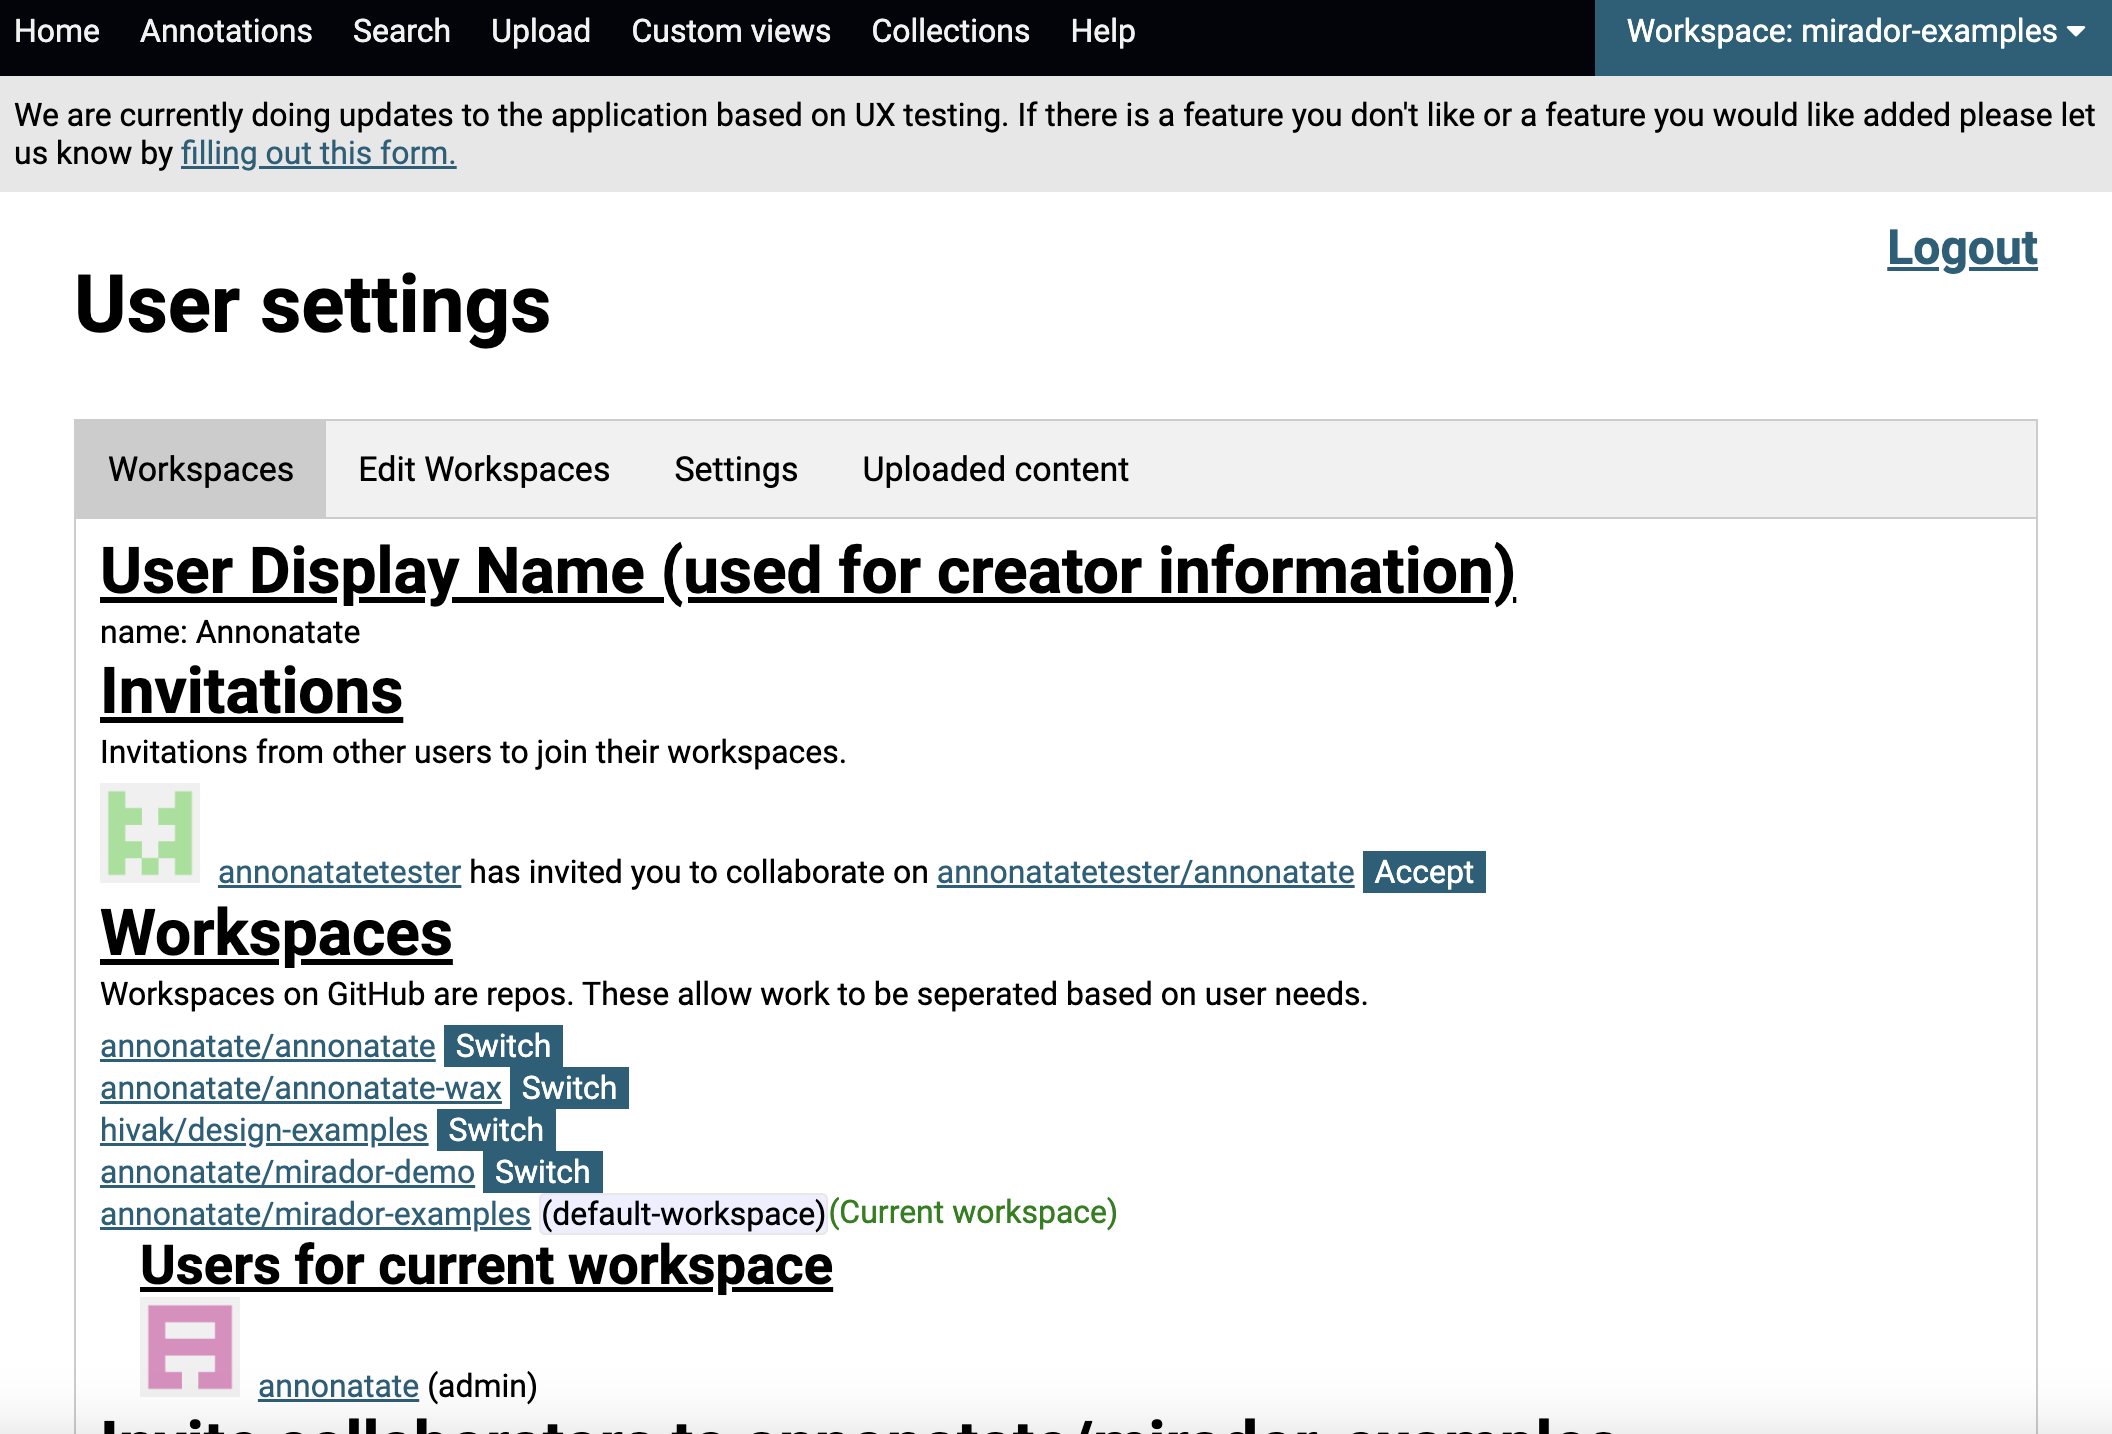
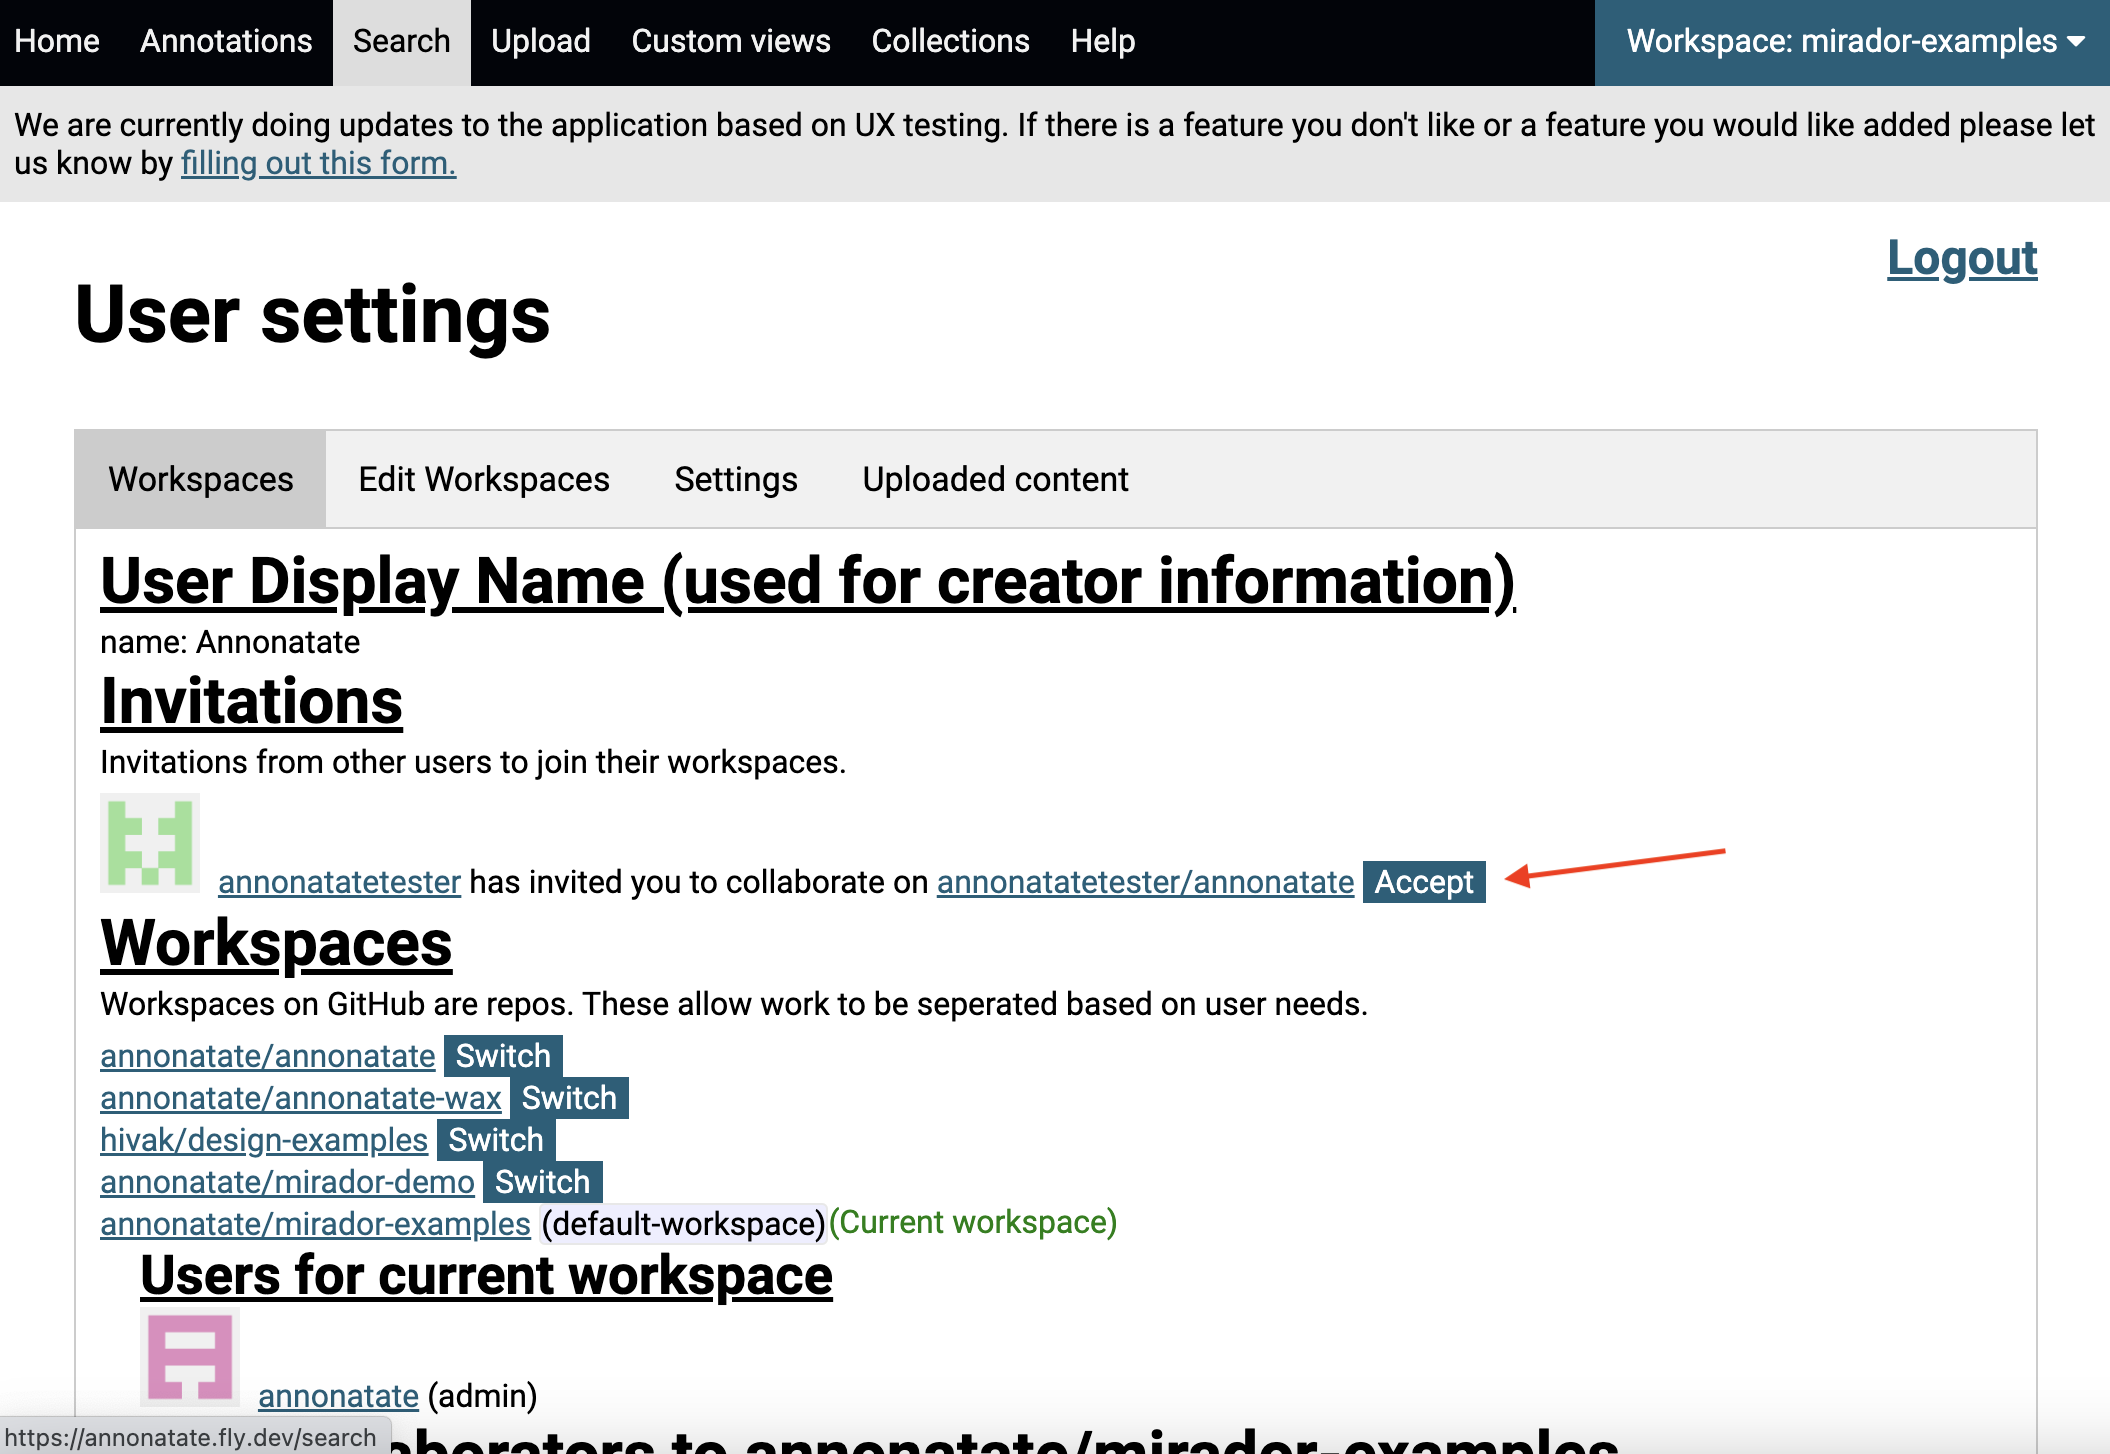
reorder pages

diff --git a/workspace/invite.md b/workspace/invite.md
@@ -1,9 +1,16 @@
 ---
-title: Inviting Collaborators
+title: Collaborators
 layout: default
 nav_order: 6
 parent: Workspace Customization
 ---
+{: .no_toc }
+
+{: .no_toc .text-delta }
+
+1. TOC
+{:toc}
+
 
 ## Invite Collaborators
 1. Click on the workspace name dropdown
@@ -15,6 +22,11 @@ parent: Workspace Customization
 ![]({{site.baseurl}}/images/invite-3.png){:class="helpimage"}
 5. If you set up a [GitHub organization](https://docs.github.com/en/organizations/collaborating-with-groups-in-organizations/creating-a-new-organization-from-scratch) you can create more fine grained user permissions (read, write, admin). If you are using a personal account you can only grant write access.
 
+## Accepting Collaboration Invite
+1. Click on "Switch Workspace" dropdown
+![]({{site.baseurl}}/images/switch-1.png){:class="helpimage"}
+2. Click on the accept button.
+![]({{site.baseurl}}/images/invite-4.png){:class="helpimage"}
 
 # Tips
 * Read Only access to a workspace only works when you are logged in with a organization account. If you aren't sure if you are logged in via an GitHub organization account, the answer is you probably aren't.

diff --git a/getting-started.md b/getting-started.md
@@ -24,11 +24,11 @@ If you are unable to log in properly try one of the following steps to get the a
 ## Delete repository
 
 1. Follow the instructions listed here: [https://docs.github.com/en/github/administering-a-repository/managing-repository-settings/deleting-a-repository](https://docs.github.com/en/github/administering-a-repository/managing-repository-settings/deleting-a-repository)
-2. Go to [https://annonatate.herokuapp.com/login](https://annonatate.herokuapp.com/login)
+2. Go to [https://annonatate.fly.dev/login](https://annonatate.fly.dev/login)
 
 ## Enable GitHub Pages
 1. Folow the instructions listed here: [https://docs.github.com/en/pages/getting-started-with-github-pages/configuring-a-publishing-source-for-your-github-pages-site](https://docs.github.com/en/pages/getting-started-with-github-pages/configuring-a-publishing-source-for-your-github-pages-site)
-2. Go to [https://annonatate.herokuapp.com/?firstbuild=True](https://annonatate.herokuapp.com/?firstbuild=True)
+2. Go to [https://annonatate.fly.dev/?firstbuild=True](https://annonatate.fly.dev/?firstbuild=True)
 
 
 

diff --git a/index.md b/index.md
@@ -4,4 +4,4 @@ layout: default
 nav_order: 1
 ---
 
-This site contains documentation on Annonatate. You can search the site for what you are looking for or you can choose one of the pages from the sidebar. If you are having trouble signing in follow the tips on troubleshooting on the [Getting Started page](https://annonatate.github.io/annonatate-help/getting-started#troubleshooting).
+This site contains documentation on [Annonatate](https://annonatate.fly.dev). You can search the site for what you are looking for or you can choose one of the pages from the sidebar. If you are having trouble signing in follow the tips on troubleshooting on the [Getting Started page](https://annonatate.github.io/getting-started#troubleshooting).

diff --git a/workspace/new.md b/workspace/new.md
@@ -1,0 +1,17 @@
+---
+title: Create New Workspace
+layout: default
+nav_order: 6
+parent: Workspace Customization
+---
+
+## Create new workspace
+1. Click on Create New Workspace dropdown
+![]({{site.baseurl}}/images/new-1.png){:class="helpimage"}
+2. Fill out form and click submit
+![]({{site.baseurl}}/images/new-2.png){:class="helpimage"}
+3. You will be redirected to the Workspaces tab. Click on the switch button to switch to your new workspace.
+![]({{site.baseurl}}/images/new-3.png){:class="helpimage"}
+4. You should see "(Current Workspace)" show up next to your workspace.
+![]({{site.baseurl}}/images/new-4.png){:class="helpimage"}
+

diff --git a/workspace/switch.md b/workspace/switch.md
@@ -1,0 +1,15 @@
+---
+title: Switch Workspace
+layout: default
+nav_order: 7
+parent: Workspace Customization
+---
+
+## Create new workspace
+1. Click on Create New Workspace dropdown
+![]({{site.baseurl}}/images/switch-1.png){:class="helpimage"}
+2. Find the workspace you want to work in and click switch.
+![]({{site.baseurl}}/images/new-3.png){:class="helpimage"}
+3. You should see “(Current Workspace)” show up next to your workspace.
+![]({{site.baseurl}}/images/new-4.png){:class="helpimage"}
+

diff --git a/viewing_annotations.md b/viewing_annotations.md
@@ -1,7 +1,7 @@
 ---
 title: Viewing Annotations
 layout: default
-nav_order: 4
+nav_order: 6
 ---
 
 # Viewing annotations

diff --git a/workspace/index.md b/workspace/index.md
@@ -1,6 +1,6 @@
 ---
 title: Workspace Customization
 layout: default
-nav_order: 6
+nav_order: 3
 has_children: true
 ---

diff --git a/customviews/index.md b/customviews/index.md
@@ -1,7 +1,7 @@
 ---
 title: Creating Customviews
 layout: default
-nav_order: 6
+nav_order: 8
 has_children: true
 ---
 

diff --git a/upload.md b/upload.md
@@ -1,7 +1,7 @@
 ---
 title: Uploading images
 layout: default
-nav_order: 5
+nav_order: 4
 ---
 
 ## Upload Images

diff --git a/wax/index.md b/wax/index.md
@@ -1,6 +1,6 @@
 ---
 title: Wax integration
 layout: default
-nav_order: 13
+nav_order: 7
 has_children: true
 ---

diff --git a/deleting.md b/deleting.md
@@ -1,7 +1,7 @@
 ---
 title: Deleting
 layout: default
-nav_order: 7
+nav_order: 6
 ---
 
 {: .no_toc }

diff --git a/create_annotations.md b/create_annotations.md
@@ -1,7 +1,7 @@
 ---
 title: Create Annotations
 layout: default
-nav_order: 3
+nav_order: 4
 ---
 
 
